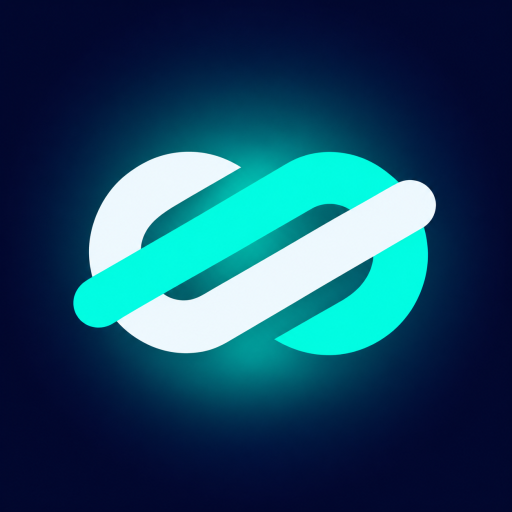
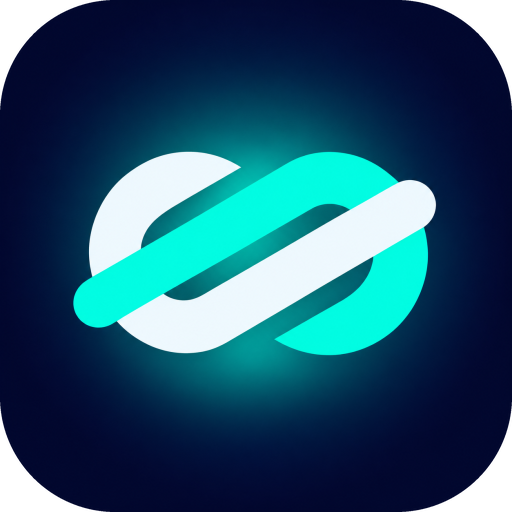
Ícones do aplicativo com cantos arredondados
As versões "any" (Windows, macOS e aba do navegador) ganham cantos
arredondados com fundo transparente. O manifesto usa uma cópia quadrada
para "maskable", porque o Android aplica a própria máscara; o ícone de
180px do iPhone continua quadrado.

diff --git a/manifest.php b/manifest.php
@@ -23,6 +23,8 @@ echo json_encode([
     'icons'            => [
         ['src' => "$img-192.png", 'sizes' => '192x192', 'type' => 'image/png', 'purpose' => 'any'],
         ['src' => "$img-512.png", 'sizes' => '512x512', 'type' => 'image/png', 'purpose' => 'any'],
-        ['src' => "$img-512.png", 'sizes' => '512x512', 'type' => 'image/png', 'purpose' => 'maskable'],
+        // "any" tem cantos arredondados (Windows, macOS, aba); "maskable" é o quadrado
+        // cheio, porque o Android aplica a própria máscara.
+        ['src' => "$img-maskable-512.png", 'sizes' => '512x512', 'type' => 'image/png', 'purpose' => 'maskable'],
     ],
 ], JSON_UNESCAPED_SLASHES | JSON_UNESCAPED_UNICODE | JSON_PRETTY_PRINT);
